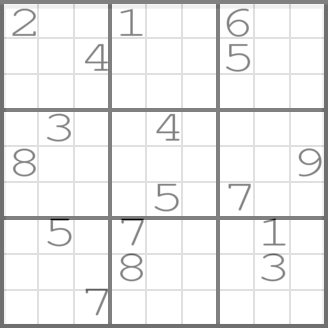
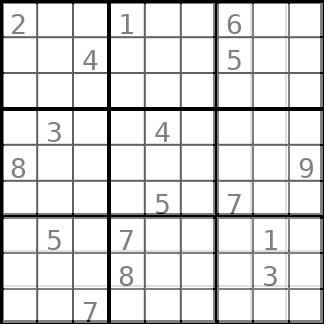
Replace ImageMagick with Python PIL/Pillow for Sudoku board rendering

Changed region(s): [[0.0, 0.0, 1.0, 1.0]]

diff --git a/analysis/render_sudoku.py b/analysis/render_sudoku.py
@@ -1,0 +1,150 @@
+#!/usr/bin/env python3
+"""
+Render Sudoku puzzle images using Python PIL/Pillow.
+Replaces ImageMagick for simpler visualization.
+"""
+
+from PIL import Image, ImageDraw, ImageFont
+import sys
+import os
+
+# Constants for rendering
+CELL_SIZE = 36  # Size of each cell in pixels
+GRID_SIZE = 9  # 9x9 Sudoku grid
+IMAGE_SIZE = CELL_SIZE * GRID_SIZE  # 324x324 pixels
+FONT_SIZE = 28
+GRID_LINE_WIDTH = 2
+THICK_LINE_WIDTH = 4
+
+def parse_sudoku_line(line):
+    """
+    Parse a linear Sudoku puzzle (81 characters) into a 9x9 grid.
+    Replace '0' with empty string for display.
+    """
+    line = line.strip()
+    if len(line) != 81:
+        raise ValueError(f"Invalid puzzle format: expected 81 characters, got {len(line)}")
+    
+    grid = []
+    for i in range(GRID_SIZE):
+        row = []
+        for j in range(GRID_SIZE):
+            char = line[i * GRID_SIZE + j]
+            # Replace 0 with empty string
+            row.append('' if char == '0' else char)
+        grid.append(row)
+    
+    return grid
+
+def draw_sudoku_grid(draw, image_size):
+    """Draw the Sudoku grid lines."""
+    # Draw thin lines for cells
+    for i in range(GRID_SIZE + 1):
+        pos = i * CELL_SIZE
+        # Determine line width (thicker for 3x3 box boundaries)
+        width = THICK_LINE_WIDTH if i % 3 == 0 else GRID_LINE_WIDTH
+        # Horizontal line
+        draw.line([(0, pos), (image_size, pos)], fill='black', width=width)
+        # Vertical line
+        draw.line([(pos, 0), (pos, image_size)], fill='black', width=width)
+
+def render_sudoku(puzzle_line, output_file, grid_image_path=None):
+    """
+    Render a Sudoku puzzle as an image.
+    
+    Args:
+        puzzle_line: 81-character string representing the puzzle
+        output_file: Path to save the output image
+        grid_image_path: Optional path to a background grid image
+    """
+    # Parse the puzzle
+    grid = parse_sudoku_line(puzzle_line)
+    
+    # Create a white background image
+    img = Image.new('RGB', (IMAGE_SIZE, IMAGE_SIZE), 'white')
+    draw = ImageDraw.Draw(img)
+    
+    # Try to load a font, fall back to default if not available
+    try:
+        # Try common font paths
+        font_paths = [
+            '/usr/share/fonts/truetype/dejavu/DejaVuSansMono.ttf',
+            '/usr/share/fonts/truetype/liberation/LiberationMono-Regular.ttf',
+            '/System/Library/Fonts/Courier.dfont',
+            'C:\\Windows\\Fonts\\cour.ttf',
+        ]
+        font = None
+        for font_path in font_paths:
+            if os.path.exists(font_path):
+                font = ImageFont.truetype(font_path, FONT_SIZE)
+                break
+        
+        if font is None:
+            font = ImageFont.load_default()
+    except:
+        font = ImageFont.load_default()
+    
+    # Draw the numbers
+    for i in range(GRID_SIZE):
+        for j in range(GRID_SIZE):
+            if grid[i][j]:  # If cell is not empty
+                # Calculate text position (centered in cell)
+                x = j * CELL_SIZE + CELL_SIZE // 2
+                y = i * CELL_SIZE + CELL_SIZE // 2
+                
+                # Draw text centered
+                text = grid[i][j]
+                bbox = draw.textbbox((0, 0), text, font=font)
+                text_width = bbox[2] - bbox[0]
+                text_height = bbox[3] - bbox[1]
+                
+                text_x = x - text_width // 2
+                text_y = y - text_height // 2
+                
+                draw.text((text_x, text_y), text, fill='black', font=font)
+    
+    # Draw the grid lines on top
+    draw_sudoku_grid(draw, IMAGE_SIZE)
+    
+    # If a background grid image is provided, blend with it
+    if grid_image_path and os.path.exists(grid_image_path):
+        try:
+            # Load the background grid
+            bg_grid = Image.open(grid_image_path)
+            # Resize to match if needed
+            if bg_grid.size != (IMAGE_SIZE, IMAGE_SIZE):
+                bg_grid = bg_grid.resize((IMAGE_SIZE, IMAGE_SIZE), Image.LANCZOS)
+            # Convert to RGB if needed
+            if bg_grid.mode != 'RGB':
+                bg_grid = bg_grid.convert('RGB')
+            
+            # Blend the images (50/50 blend like ImageMagick's -average)
+            img = Image.blend(bg_grid, img, alpha=0.5)
+        except Exception as e:
+            print(f"Warning: Could not blend with background grid: {e}")
+    
+    # Save the image
+    img.save(output_file)
+    print(f"Rendered Sudoku to {output_file}")
+
+def main():
+    """Main function."""
+    if len(sys.argv) < 3:
+        print("Usage: python3 render_sudoku.py <puzzle_line> <output_file> [grid_image]")
+        print("  puzzle_line: 81-character string representing the Sudoku puzzle")
+        print("  output_file: Path to save the output PNG image")
+        print("  grid_image: Optional background grid image to blend with")
+        sys.exit(1)
+    
+    puzzle_line = sys.argv[1]
+    output_file = sys.argv[2]
+    grid_image = sys.argv[3] if len(sys.argv) > 3 else None
+    
+    try:
+        render_sudoku(puzzle_line, output_file, grid_image)
+    except Exception as e:
+        print(f"Error: {e}")
+        sys.exit(1)
+
+if __name__ == '__main__':
+    main()

diff --git a/README.md b/README.md
@@ -35,8 +35,7 @@ Requirements
 - Make (optional, but recommended)
 
 **For full analysis:**
-- Python 3 with matplotlib (install with `pip install -r analysis/requirements.txt`)
-- ImageMagick convert tool
+- Python 3 with matplotlib and Pillow (install with `pip install -r analysis/requirements.txt`)
 - Unix/Linux shell with standard utilities (wget, awk, sort, etc.)
 
 Compilation
@@ -177,9 +176,13 @@ And now we are ready for some awesomeness!
 Rendering Sudoku puzzles
 ------
 
-We use ImageMagick convert tool to do the full rendering in one line:
+We use Python with PIL/Pillow to render the Sudoku puzzles:
 
-> i=1; cat top10.txt | while read line;  do echo $line | fold -w 9 | tr 0 " " | head -c 89 | convert  -pointsize 100 -font Courier -size 531x721 label:@- puzzle.png ; convert puzzle.png -border 10x10 -splice 0x10 -resize 328x328\! puzzle.png; convert blank_grid.gif puzzle.png -average hardest_sudoku_$i.png; i=`expr $i + 1`; done
+> ./render.sh
+
+Or manually for a single puzzle:
+
+> python3 render_sudoku.py "200500080001020000000000000070008000003000020000070600600200001040000700000300000" output.png blank_grid.gif
 
 Done!
 
